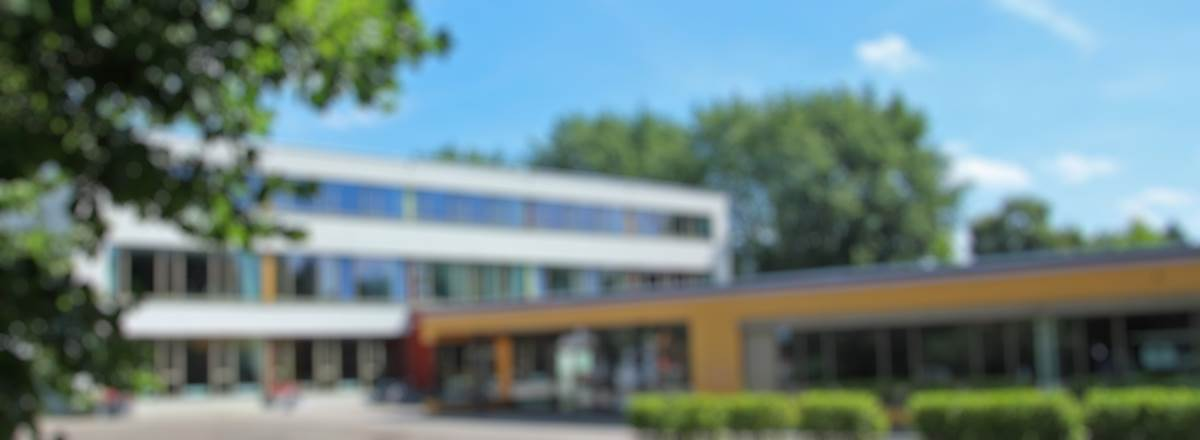
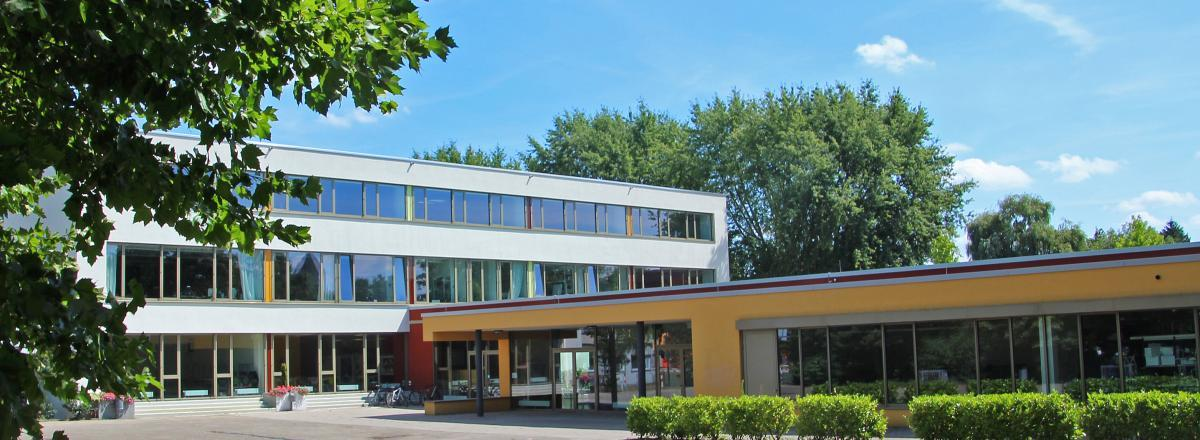
Replace blurry placeholders

diff --git a/index.html b/index.html
@@ -135,7 +135,7 @@
             <li><a href="">G&auml;ste im WHG</a></li>
             <li><a href="">Kooperationspartner</a></li>
           </ul>
-          <h3>Lernen f&uml;r's Leben</h3>
+          <h3>Lernen f&uuml;r's Leben</h3>
           <ul>
             <li><a href="">Methodencurriculum</a></li>
             <li><a href="">Medienbildung</a></li>
